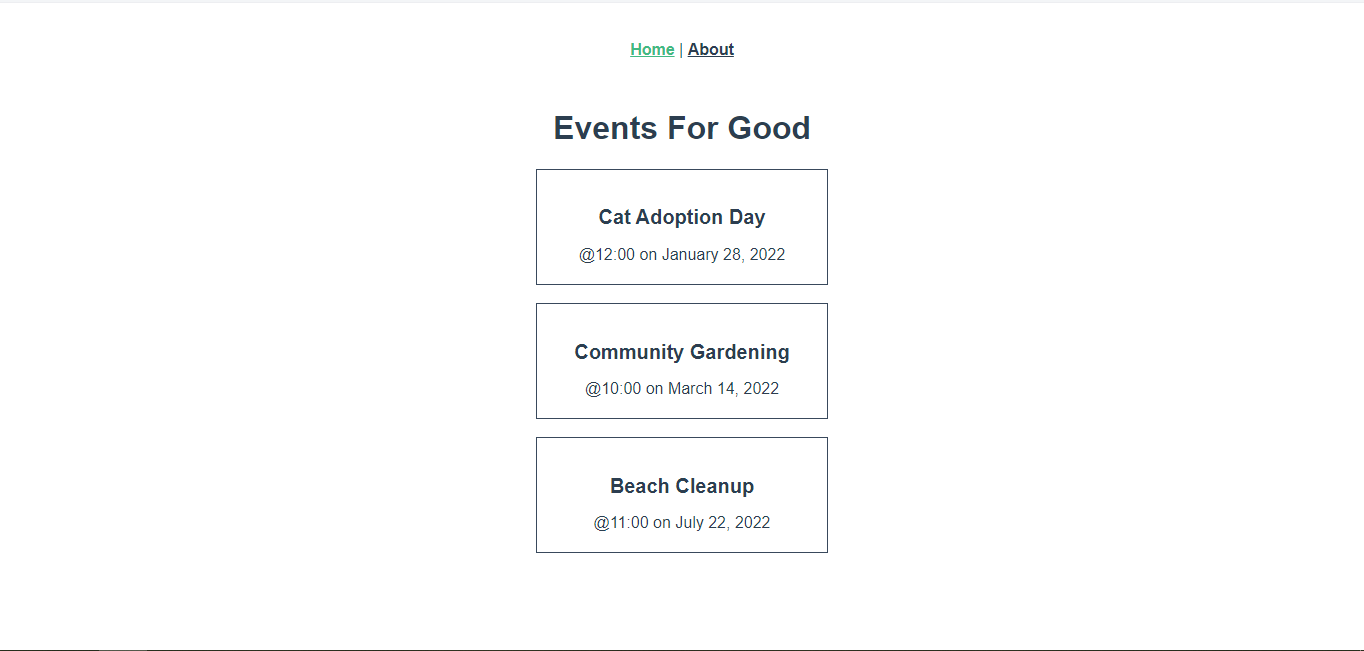
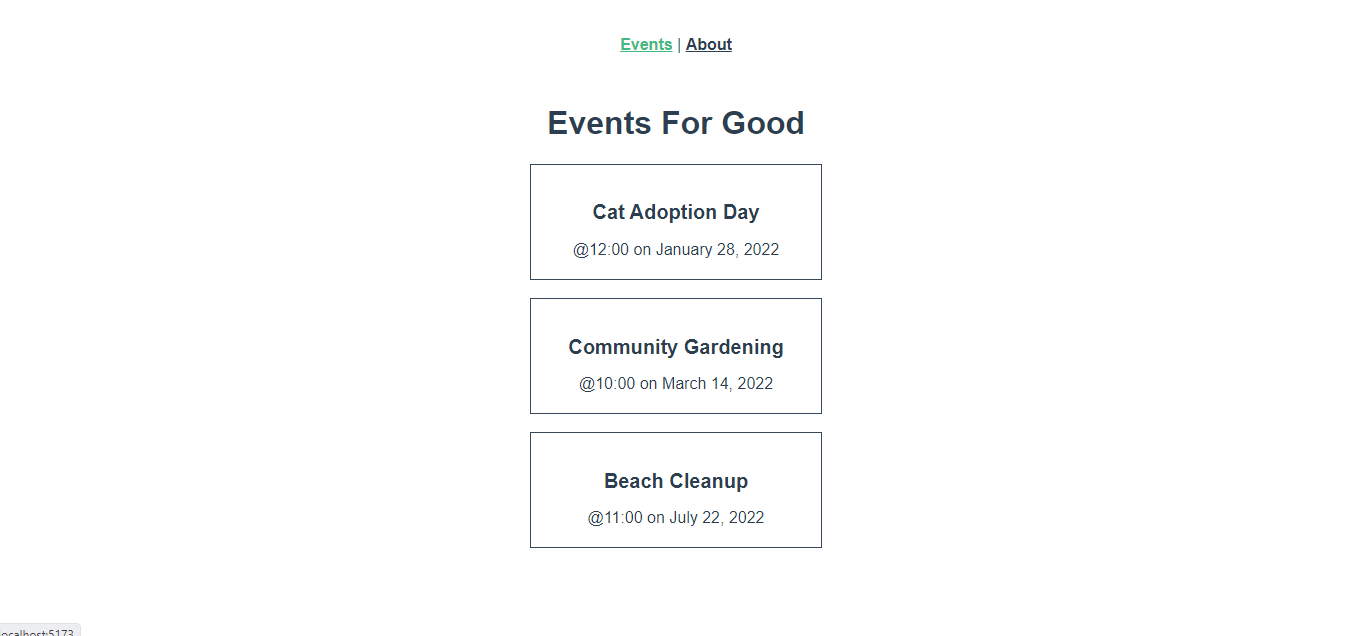
Tutorial 06

diff --git a/src/components/EventCard.vue b/src/components/EventCard.vue
@@ -1,6 +1,4 @@
 <script setup>
-import { ref } from 'vue'
-
 defineProps({
   event: {
     type: Object,
@@ -10,10 +8,12 @@ defineProps({
 </script>
 
 <template>
-  <div class="event-card">
-    <h2>{{ event.title }}</h2>
-    <span>@{{ event.time }} on {{ event.date }}</span>
-  </div>
+  <RouterLink class="event-link" :to="{ name: 'event-details', params: { id: event.id } }">
+    <div class="event-card">
+      <h2>{{ event.title }}</h2>
+      <span>@{{ event.time }} on {{ event.date }}</span>
+    </div>
+  </RouterLink>
 </template>
 
 <style scoped>
@@ -27,5 +27,9 @@ defineProps({
 .event-card:hover {
   transform: scale(1.01);
   box-shadow: 0 3px 12px 0 rgba(0, 0, 0, 0.2);
+}
+.event-link {
+  color: #2c3e50;
+  text-decoration: none;
 }
 </style>

diff --git a/src/views/EventDetailsView.vue b/src/views/EventDetailsView.vue
@@ -1,0 +1,30 @@
+<script setup>
+import { ref, onMounted } from 'vue'
+import EventService from '@/services/EventService.js'
+
+const props = defineProps({
+  id: {
+    required: true
+  }
+})
+
+const event = ref(null)
+
+onMounted(() => {
+  EventService.getEvent(props.id)
+    .then((response) => {
+      event.value = response.data
+    })
+    .catch((error) => {
+      console.log(error)
+    })
+})
+</script>
+
+<template>
+  <div v-if="event">
+    <h1>{{ event.title }}</h1>
+    <p>{{ event.time }} on {{ event.date }} @ {{ event.location }}</p>
+    <p>{{ event.description }}</p>
+  </div>
+</template>

diff --git a/src/router/index.js b/src/router/index.js
@@ -1,6 +1,7 @@
 import { createRouter, createWebHistory } from 'vue-router'
 import EventListView from '../views/EventListView.vue'
 import AboutView from '../views/AboutView.vue'
+import EventDetailsView from '../views/EventDetailsView.vue'
 
 const router = createRouter({
   history: createWebHistory(import.meta.env.BASE_URL),
@@ -14,6 +15,12 @@ const router = createRouter({
       path: '/about',
       name: 'about',
       component: AboutView
+    },
+    {
+      path: '/event/:id',
+      name: 'event-details',
+      props: true,
+      component: EventDetailsView
     }
   ]
 })

diff --git a/src/App.vue b/src/App.vue
@@ -8,8 +8,8 @@ import { RouterLink, RouterView } from 'vue-router'
     <header>
       <div class="wrapper">
         <nav>
-          <RouterLink to="/">Events</RouterLink> |
-          <RouterLink to="/about">About</RouterLink>
+          <RouterLink :to="{ name: 'event-list' }">Events</RouterLink> |
+          <RouterLink :to="{ name: 'about' }">About</RouterLink>
         </nav>
       </div>
     </header>

diff --git a/src/services/EventService.js b/src/services/EventService.js
@@ -12,5 +12,9 @@ const apiClient = axios.create({
 export default {
   getEvents() {
     return apiClient.get('/events')
+  },
+  //Added new call
+  getEvent(id) {
+    return apiClient.get('/events/' + id)
   }
 }

diff --git a/README.md b/README.md
@@ -1,4 +1,4 @@
-<h1 align="center"> Tutorial 5. Chamadas de API Com Axios </h1>
+<h1 align="center"> Tutorial 6. Roteamento Dinâmico</h1>
 
 <p align="center">
   <a href="#-tecnologias">Tecnologias</a>
